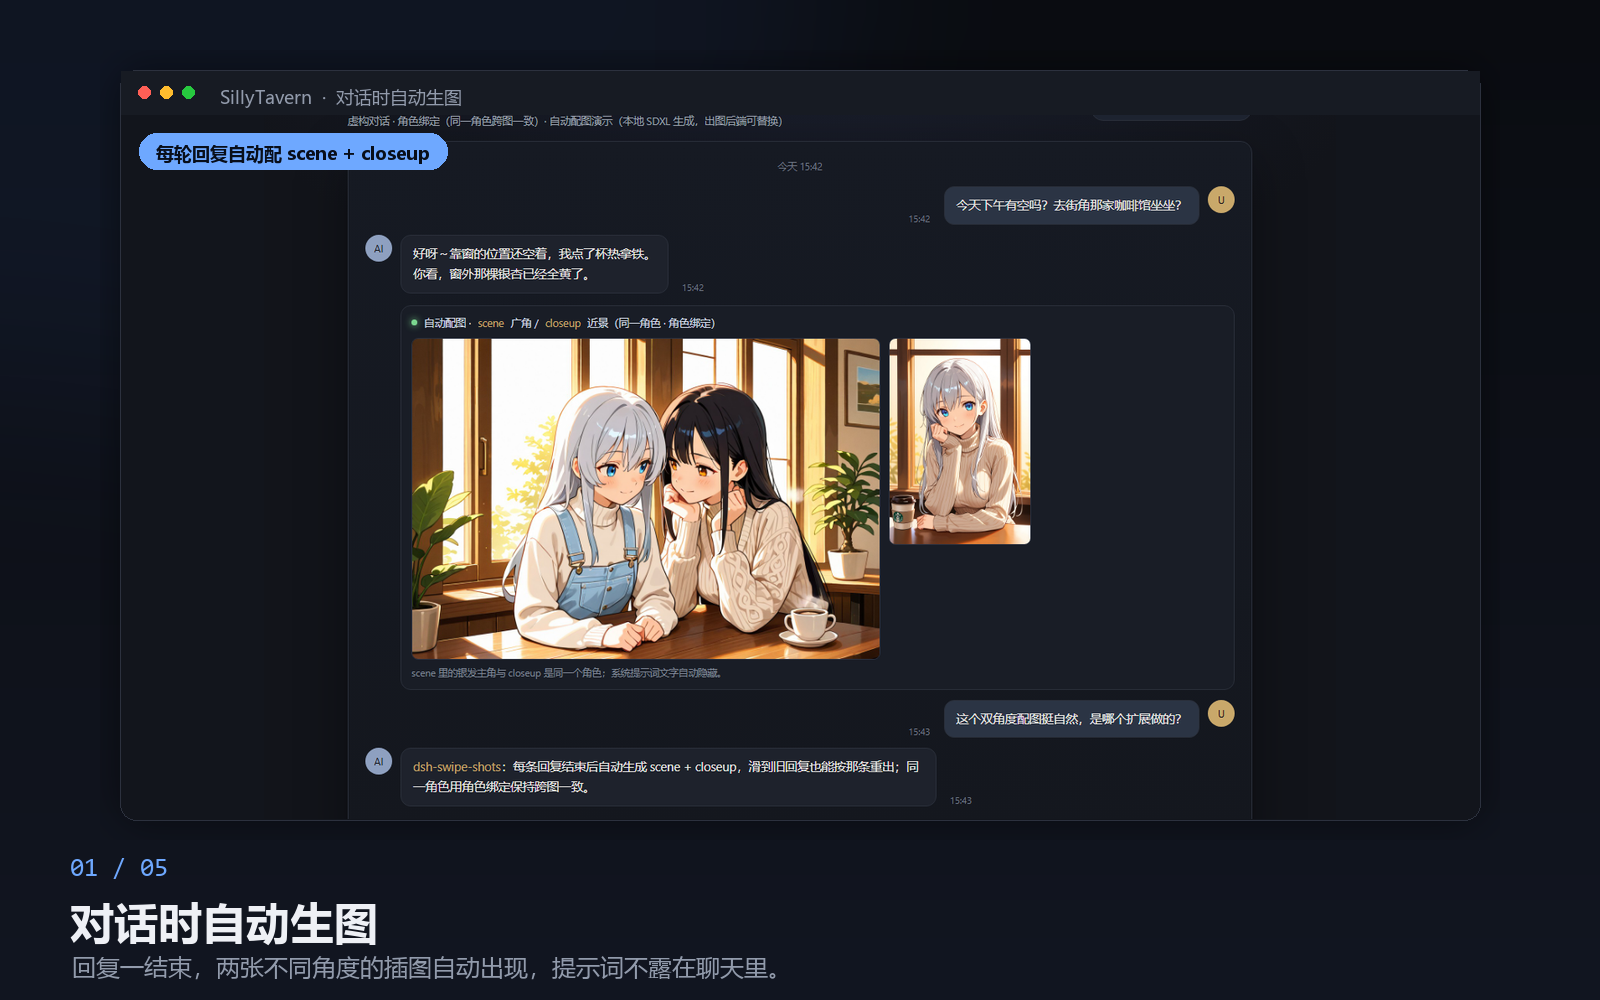
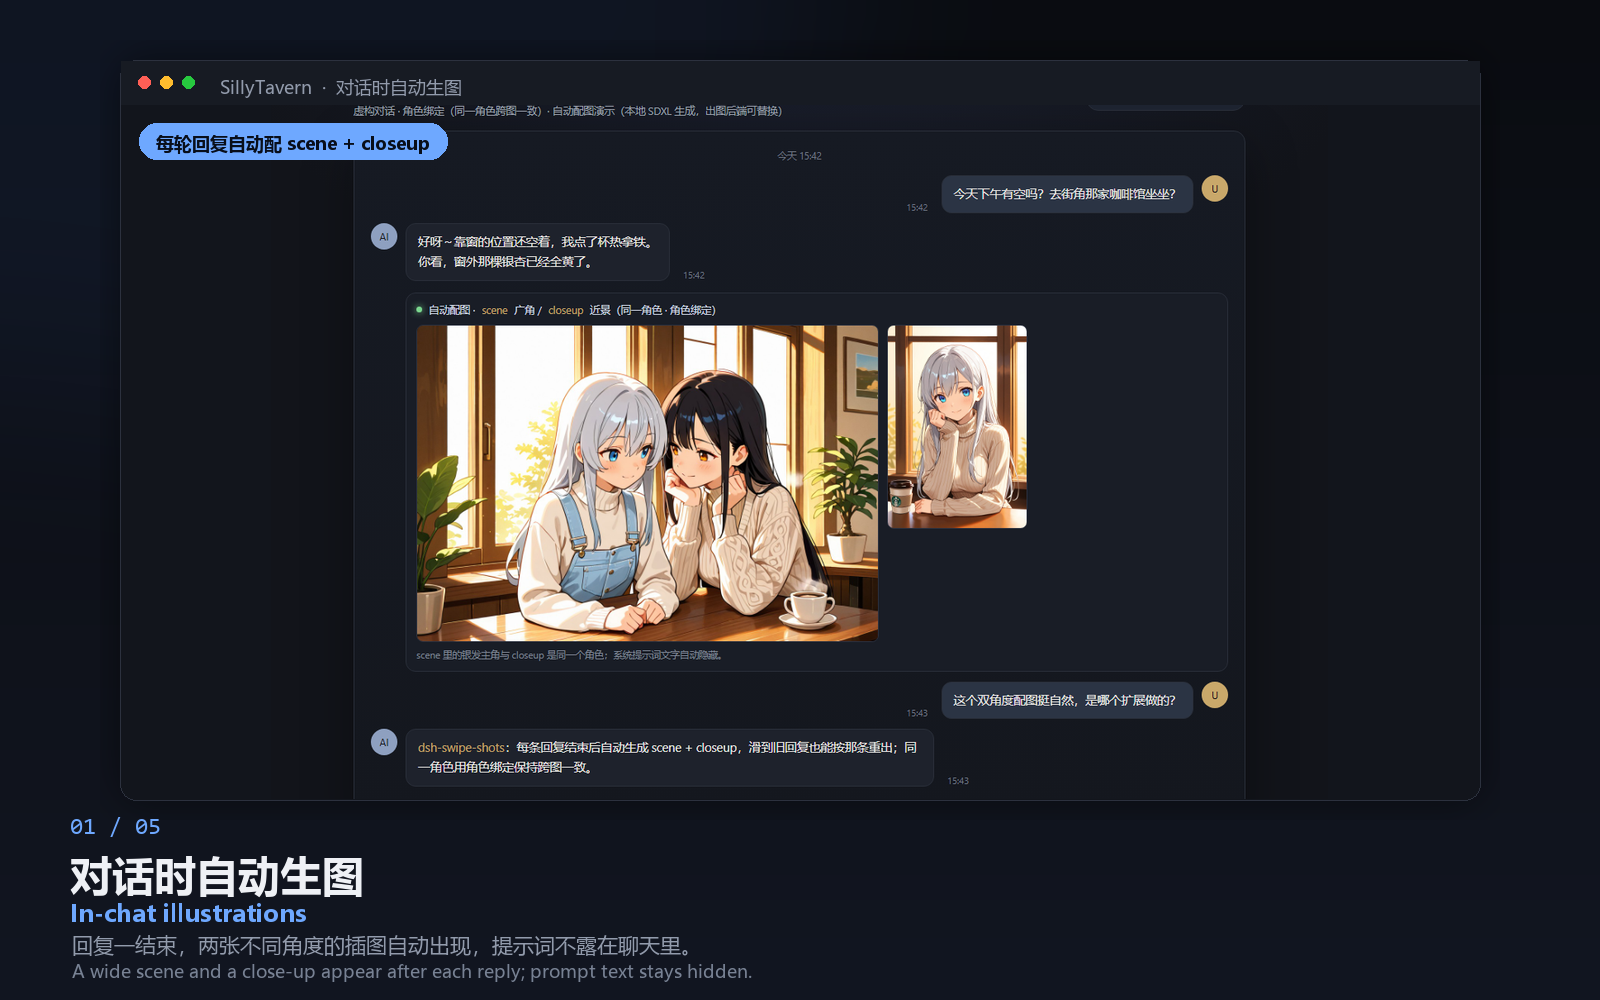
docs: bilingual captions for the showcase carousel

diff --git a/tools/make_carousel.py b/tools/make_carousel.py
@@ -73,15 +73,17 @@ def base_canvas():
     img.alpha_composite(glow.filter(ImageFilter.GaussianBlur(120)))
     return img
 
-def caption(img, idx, title, sub):
+def caption(img, idx, title, en, sub, sub_en):
     d = ImageDraw.Draw(img)
-    d.text((70, 856), f"{idx:02d} / 05", font=font(F_MONO, 26), fill=ACCENT)
-    d.text((70, 892), title, font=font(F_BOLD, 44), fill=TEXT)
-    d.text((72, 950), sub, font=font(F_REG, 24), fill=MUTED)
+    d.text((70, 816), f"{idx:02d} / 05", font=font(F_MONO, 24), fill=ACCENT)
+    d.text((70, 846), title, font=font(F_BOLD, 42), fill=TEXT)
+    d.text((70, 896), en, font=font(F_BOLD, 24), fill=ACCENT)
+    d.text((72, 930), sub, font=font(F_REG, 21), fill=MUTED)
+    d.text((72, 958), sub_en, font=font(F_REG, 18), fill=(120,130,148))
 
 def frame1():
     img = base_canvas()
-    box = (120, 70, 1480, 820)
+    box = (120, 60, 1480, 800)
     inner = window(img, box, "SillyTavern  ·  对话时自动生图")
     w, h = inner[2]-inner[0], inner[3]-inner[1]
     raw = Image.open(os.path.join(SHOW,"demo-chat.png")).convert("RGB").crop((0, 60, 1280, 900))
@@ -90,12 +92,12 @@ def frame1():
     ox = inner[0] + (w-shot.width)//2; oy = inner[1] + (h-shot.height)//2
     img.paste(shot, (ox, oy))
     badge(img, (inner[0]+18, inner[1]+18), "每轮回复自动配 scene + closeup", ACCENT)
-    caption(img, 1, "对话时自动生图", "回复一结束，两张不同角度的插图自动出现，提示词不露在聊天里。")
+    caption(img, 1, "对话时自动生图", "In-chat illustrations", "回复一结束，两张不同角度的插图自动出现，提示词不露在聊天里。", "A wide scene and a close-up appear after each reply; prompt text stays hidden.")
     return img
 
 def frame2():
     img = base_canvas()
-    box = (120, 70, 1480, 820)
+    box = (120, 60, 1480, 800)
     inner = window(img, box, "SillyTavern  ·  角色卡")
     d = ImageDraw.Draw(img)
     av = Image.open(os.path.join(SHOW,"avatar.jpg")).convert("RGB")
@@ -111,12 +113,12 @@ def frame2():
         d.text((inner[0]+442,y+17),k,font=font(F_REG,22),fill=MUTED)
         d.text((inner[0]+560,y+17),v,font=font(F_BOLD,22),fill=TEXT)
     badge(img,(inner[0]+420, inner[1]+540), "新头像写入角色卡，旧图自动备份", GOLD)
-    caption(img, 2, "角色卡自动更新", "生成的形象直接替换角色卡头像，跨聊天保持一致。")
+    caption(img, 2, "角色卡自动更新", "Character-card avatars", "生成的形象直接替换角色卡头像，跨聊天保持一致。", "The generated portrait replaces the card avatar; old ones are backed up and the character stays consistent.")
     return img
 
 def frame3():
     img = base_canvas()
-    box = (120, 70, 1480, 820)
+    box = (120, 60, 1480, 800)
     inner = window(img, box, "SillyTavern  ·  自动生成背景")
     w, h = inner[2]-inner[0], inner[3]-inner[1]
     bg = fit(Image.open(os.path.join(SHOW,"scene.jpg")).convert("RGB"), w, h)
@@ -129,12 +131,12 @@ def frame3():
     rr(d,(bx+220,by+120,bx+840,by+212),18,fill=(48,82,150,235))
     d.text((bx+244,by+138),"这个背景是实时生成的吗？",font=font(F_REG,26),fill=(240,245,255))
     badge(img,(inner[0]+w-520, inner[1]+40), "场景变化时才换图，旧图自动清理", ACCENT)
-    caption(img, 3, "自动生成背景", "主模型先判断场景有没有变，变了才出图，聊天背景跟着剧情走。")
+    caption(img, 3, "自动生成背景", "Generated backgrounds", "主模型先判断场景有没有变，变了才出图，聊天背景跟着剧情走。", "The main model checks whether the scene changed; only then is a new background drawn.")
     return img
 
 def frame4():
     img = base_canvas()
-    box = (120, 70, 1480, 820)
+    box = (120, 60, 1480, 800)
     inner = window(img, box, "SillyTavern  ·  右侧角色栏")
     d = ImageDraw.Draw(img)
     rr(d,(inner[0],inner[1],inner[0]+920,inner[3]),0,fill=(15,18,25))
@@ -152,12 +154,12 @@ def frame4():
         d.text((dx0+122,y+30),n,font=font(F_BOLD,24),fill=TEXT)
         d.text((dx0+122,y+66),"点按切换",font=font(F_REG,18),fill=MUTED)
     badge(img,(inner[0]+50, inner[1]+250), "固定 / 拖拽 / 一键切换", ACCENT)
-    caption(img, 4, "拖出右侧角色栏", "常驻右侧的角色抽屉，不用反复进菜单。")
+    caption(img, 4, "拖出右侧角色栏", "Right-side character drawer", "常驻右侧的角色抽屉，不用反复进菜单。", "Pin frequently used characters, switch with one click, drag it out of the way.")
     return img
 
 def frame5():
     img = base_canvas()
-    box = (120, 70, 1480, 820)
+    box = (120, 60, 1480, 800)
     inner = window(img, box, "SillyTavern  ·  自定义生图模型")
     d = ImageDraw.Draw(img)
     x = inner[0]+70; y = inner[1]+60
@@ -172,7 +174,7 @@ def frame5():
     d.text((x+980,y+88),"应用设置",font=font(F_BOLD,24),fill=(8,14,26))
     d.text((x,y+590),"也可以换成 SDXL / Krea 2 / 云端 API；每段聊天单独记住设置。",font=font(F_REG,20),fill=MUTED)
     badge(img,(x+930,y+170), "全在面板里改", GOLD)
-    caption(img, 5, "打开自定义生图模型设置", "模型、工作流、步数、采样器都在面板里改，不碰配置文件。")
+    caption(img, 5, "打开自定义生图模型设置", "Custom image-model settings", "模型、工作流、步数、采样器都在面板里改，不碰配置文件。", "Model, workflow, steps and sampler are editable in the panel, no config files.")
     return img
 
 def main():

diff --git a/README.md b/README.md
@@ -11,7 +11,7 @@
 <p align="center">
   <img src="docs/showcase/carousel/carousel.gif" alt="SillyTavern DSH Pack in five frames: in-chat images, character card, background, character drawer, image model settings" width="880">
 </p>
-<p align="center"><sub>Five things the pack adds — in-chat illustrations · character-card avatars · generated backgrounds · the right-side character drawer · a custom image-model panel.</sub></p>
+<p align="center"><sub>Five things the pack adds — in-chat illustrations · character-card avatars · generated backgrounds · the right-side character drawer · a custom image-model panel.<br>五个能力：对话生图 · 角色卡头像 · 自动背景 · 右侧角色栏 · 自定义生图模型。</sub></p>
 
 ## What it does
 
